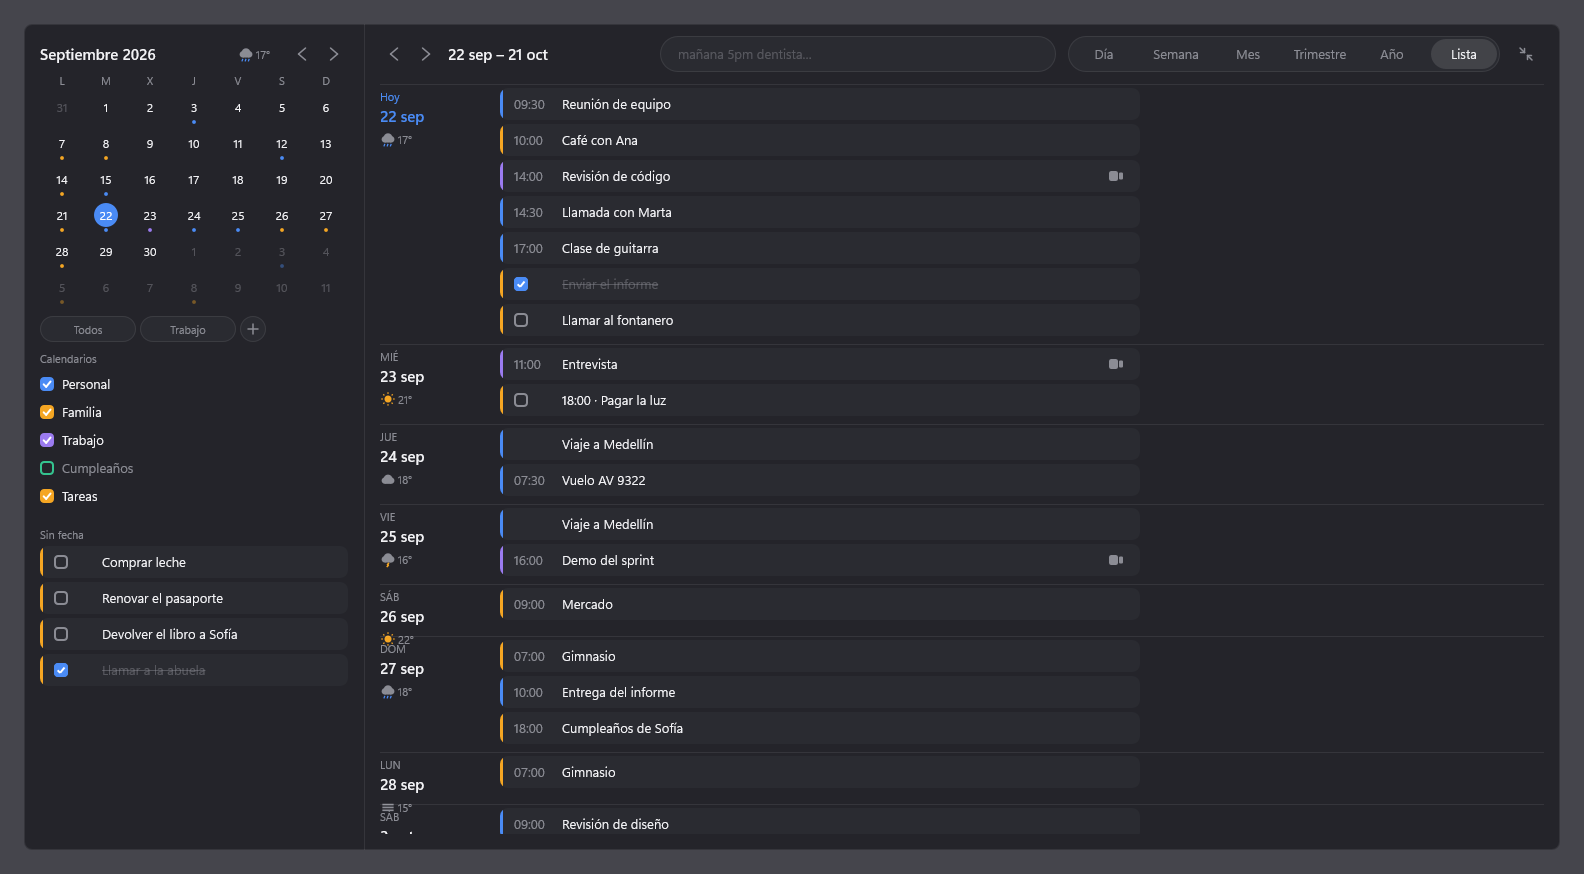
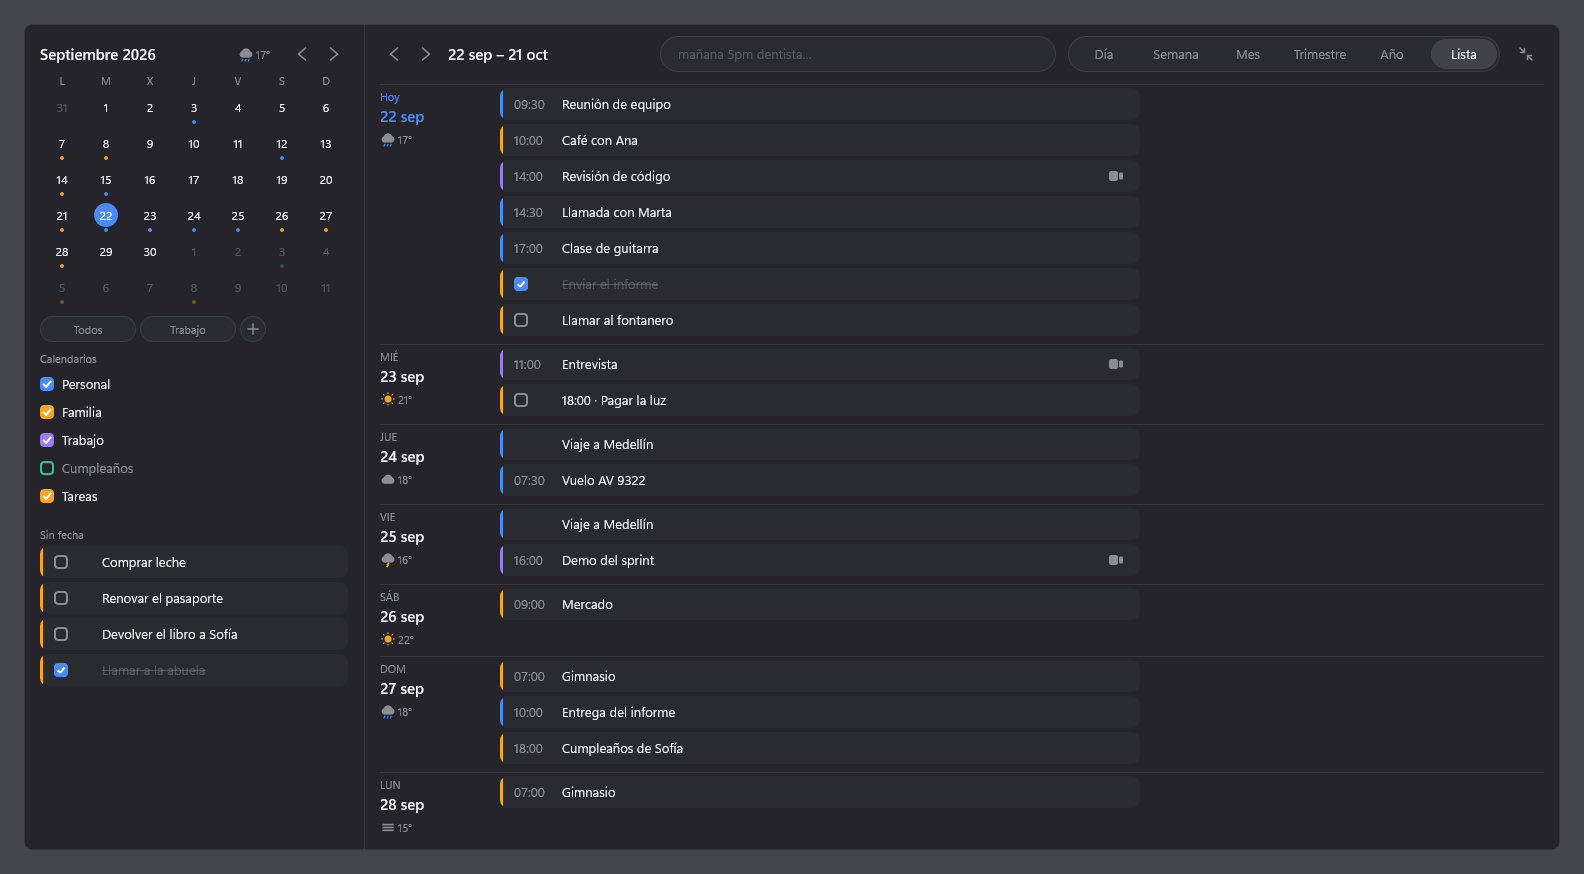
fix(calendario): lo que encontro la prueba en vivo de la fase 13
- el clima se perdia al reabrir el popup
- Open-Meteo responde deflate y WinHTTP no lo lee: se pide sin comprimir
- con seis pestanas en un portatil al 175 % la capsula tapaba las flechas
- la lista y el ano se amontonaban con filas bajas

Changed region(s): [[0.3093, 0.7414, 0.4331, 0.9577], [0.2165, 0.8959, 0.2784, 0.9577], [0.2475, 0.7414, 0.2784, 0.8032]]

diff --git a/calendario/src/ui/app_layout.h b/calendario/src/ui/app_layout.h
@@ -144,6 +144,9 @@ struct AppLayout {
   D2D1_RECT_F title{};
   D2D1_RECT_F input{};
   D2D1_RECT_F tabs[kAppViews]{};
+  // How the tabs are labelled, from what fits: 0 the whole word, 1 shortened ("Sem.",
+  // "Trim."), 2 the initial alone. Six views do not fit a small laptop's app at full length.
+  int tabLabels = 0;
   D2D1_RECT_F collapse{};
 
   D2D1_RECT_F main{};
@@ -284,14 +287,27 @@ inline AppLayout MakeAppLayout(D2D1_SIZE_F size, const PanelLayout& popup, AppVi
   const float right = (std::max)(left, out.width - out.padding);
 
   out.collapse = D2D1_RECT_F{right - out.rowHeight, out.rowTop, right, rowBottom};
-  const float tabWidth = at(kTabWidthDip);
   const float tabsRight = out.collapse.left - 2.0f * out.gap;
+  const float arrow = popup.arrowSize;
+  // What has to fit left of the tabs: the arrows, a title worth reading and the shortest
+  // capsule. The tabs take the widest labels that still leave that much.
+  const float leftNeeds = 2.0f * arrow + out.gap + 2.0f * out.gap + at(120.0f) + 3.0f * out.gap +
+                          at(kCapsuleMinDip) + 3.0f * out.gap;
+  const float tabsRoom = tabsRight - left - leftNeeds;
+  constexpr float kTabWidths[3] = {kTabWidthDip, 56.0f, 34.0f};
+  out.tabLabels = 2;
+  for (int labels = 0; labels < 3; ++labels) {
+    if (static_cast<float>(kAppViews) * at(kTabWidths[labels]) <= tabsRoom) {
+      out.tabLabels = labels;
+      break;
+    }
+  }
+  const float tabWidth = at(kTabWidths[out.tabLabels]);
   for (int i = 0; i < kAppViews; ++i) {
     const float tabLeft = tabsRight - static_cast<float>(kAppViews - i) * tabWidth;
     out.tabs[i] = D2D1_RECT_F{tabLeft, out.rowTop, tabLeft + tabWidth, rowBottom};
   }
 
-  const float arrow = popup.arrowSize;
   const float arrowTop = std::round(out.rowTop + (out.rowHeight - arrow) / 2.0f);
   out.prev = D2D1_RECT_F{left, arrowTop, left + arrow, arrowTop + arrow};
   out.next = D2D1_RECT_F{out.prev.right + out.gap, arrowTop, out.prev.right + out.gap + arrow,
@@ -302,7 +318,9 @@ inline AppLayout MakeAppLayout(D2D1_SIZE_F size, const PanelLayout& popup, AppVi
   const float inputRight = out.tabs[0].left - 3.0f * out.gap;
   const float titleMin = at(200.0f);
   const float room = inputRight - (out.next.right + 2.0f * out.gap + titleMin + 3.0f * out.gap);
-  const float capsule = std::clamp(room, at(kCapsuleMinDip), at(kCapsuleMaxDip));
+  // Never over the arrows, even when that means shorter than its minimum.
+  const float capsule = (std::min)(std::clamp(room, at(kCapsuleMinDip), at(kCapsuleMaxDip)),
+                                   (std::max)(0.0f, inputRight - out.next.right - 2.0f * out.gap));
   out.input = D2D1_RECT_F{inputRight - capsule, out.rowTop, inputRight, rowBottom};
   out.title = D2D1_RECT_F{out.next.right + 2.0f * out.gap, out.rowTop,
                           (std::max)(out.next.right + 2.0f * out.gap,
@@ -381,8 +399,11 @@ inline YearMonth PlaceYearMonth(const AppLayout& app, const PanelLayout& popup, 
   grid.gridHeight = grid.cellHeight * kGridRows;
   const float scale = grid.cellHeight / popup.cellHeight;
   grid.dayCircle = std::round((std::min)(popup.dayCircle * scale, grid.cellWidth - 4.0f));
-  grid.dayCenterY = std::round(popup.dayCenterY * scale);
-  grid.dotCenterY = grid.dayCenterY + grid.dayCircle / 2.0f + grid.eventDot / 2.0f;
+  // The dot at the foot of its own cell and the number centred in what is left above it: the
+  // letters do not shrink with the rows, so anything worked out from the popup's proportions
+  // puts the dot against the next row's number on a small screen (seen at 175 %).
+  grid.dotCenterY = grid.cellHeight - grid.eventDot / 2.0f - 1.0f;
+  grid.dayCenterY = std::round((grid.cellHeight - grid.eventDot - 2.0f) / 2.0f);
   return out;
 }
 
@@ -432,7 +453,8 @@ inline std::vector<ListRow> PlaceList(const AppLayout& app, const PanelLayout& p
     const std::vector<DayItem>& items = days[static_cast<size_t>(d)];
     if (items.empty()) continue;
     const float cards = static_cast<float>(items.size()) * (popup.cardHeight + app.gap);
-    const float height = (std::max)(cards, std::round(44.0f * app.type)) + 2.0f * app.gap;
+    // Never shorter than its date column: weekday, date and the weather under them (64 DIP).
+    const float height = (std::max)(cards, std::round(64.0f * app.type)) + 2.0f * app.gap;
     ListRow heading;
     heading.heading = true;
     heading.day = AddDays(first, d);

diff --git a/calendario/src/ui/app_view.cpp b/calendario/src/ui/app_view.cpp
@@ -157,9 +157,16 @@ void DrawTopRow(ID2D1RenderTarget* target, const Fonts& fonts, const Theme& them
   brush->SetColor(theme.border);
   StrokeRound(target, all, radius, brush, 1.0f);
 
-  const std::wstring_view kNames[kAppViews] = {T(L"Día", L"Day"),         T(L"Semana", L"Week"),
-                                               T(L"Mes", L"Month"),       T(L"Trimestre", L"Quarter"),
-                                               T(L"Año", L"Year"),        T(L"Lista", L"List")};
+  const std::wstring_view kFull[kAppViews] = {T(L"Día", L"Day"),   T(L"Semana", L"Week"),
+                                              T(L"Mes", L"Month"), T(L"Trimestre", L"Quarter"),
+                                              T(L"Año", L"Year"),  T(L"Lista", L"List")};
+  const std::wstring_view kShort[kAppViews] = {T(L"Día", L"Day"),  T(L"Sem.", L"Week"),
+                                               T(L"Mes", L"Mon."), T(L"Trim.", L"Qtr."),
+                                               T(L"Año", L"Year"), T(L"Lista", L"List")};
+  const std::wstring_view kInitial[kAppViews] = {T(L"D", L"D"), T(L"S", L"W"), T(L"M", L"M"),
+                                                 T(L"T", L"Q"), T(L"A", L"Y"), T(L"L", L"L")};
+  const std::wstring_view* kNames =
+      app.tabLabels == 0 ? kFull : (app.tabLabels == 1 ? kShort : kInitial);
   const float inset = std::round(3.0f * app.type);
   for (int i = 0; i < kAppViews; ++i) {
     const bool on = static_cast<int>(appModel.view) == i;

diff --git a/calendario/tests/test_app.cpp b/calendario/tests/test_app.cpp
@@ -279,3 +279,18 @@ TEST_CASE("a template made from an event is named after it and says all but when
   CHECK(TemplateTextFor(event) ==
         L"e: Revisión por 90 min @ Sala Andes con ana@x.com y luis@x.com");
 }
+
+TEST_CASE("on a small screen the tabs shorten before the capsule climbs over the arrows") {
+  // The app on a 1920x1080 laptop at 175 %: 878 x 494 DIP, with the popup's 308 DIP sidebar.
+  const PanelLayout popup = MakeLayout(D2D1_SIZE_F{308.0f, 380.0f});
+  for (const float width : {878.0f, 1100.0f, kAppBaseWidthDip}) {
+    const AppLayout app =
+        MakeAppLayout(D2D1_SIZE_F{width, 494.0f}, popup, AppView::Week, 1);
+    CHECK(app.input.left >= app.next.right);
+    CHECK(app.input.right <= app.tabs[0].left);
+    CHECK(app.tabs[0].left >= app.sidebarRight);
+    CHECK(app.tabs[kAppViews - 1].right <= app.collapse.left);
+  }
+  CHECK(BaseApp(AppView::Week).tabLabels == 0);  // the design size has room for whole words
+  CHECK(MakeAppLayout(D2D1_SIZE_F{878.0f, 494.0f}, popup, AppView::Week, 1).tabLabels > 0);
+}

diff --git a/calendario/src/sync/http.cpp b/calendario/src/sync/http.cpp
@@ -57,7 +57,7 @@ class RequestHandle {
 
 Http::~Http() { Close(); }
 
-bool Http::Open() {
+bool Http::Open(bool decompress) {
   Close();
 
   session_ = WinHttpOpen(kAgent, WINHTTP_ACCESS_TYPE_AUTOMATIC_PROXY, WINHTTP_NO_PROXY_NAME,
@@ -76,9 +76,11 @@ bool Http::Open() {
   WinHttpSetOption(session_, WINHTTP_OPTION_ENABLE_HTTP_PROTOCOL, &http2, sizeof(http2));
 
   // A year of somebody's calendar arrives compressed, without a line of gzip written here.
-  DWORD decompression = WINHTTP_DECOMPRESSION_FLAG_ALL;
-  WinHttpSetOption(session_, WINHTTP_OPTION_DECOMPRESSION, &decompression,
-                   sizeof(decompression));
+  if (decompress) {
+    DWORD decompression = WINHTTP_DECOMPRESSION_FLAG_ALL;
+    WinHttpSetOption(session_, WINHTTP_OPTION_DECOMPRESSION, &decompression,
+                     sizeof(decompression));
+  }
 
   {
     std::lock_guard<std::mutex> lock(mutex_);

diff --git a/calendario/src/sync/weather.cpp b/calendario/src/sync/weather.cpp
@@ -84,7 +84,7 @@ void Weather::Run(WeatherCity city) {
   }
 
   sync::Http http;
-  if (!http.Open()) {
+  if (!http.Open(/*decompress=*/false)) {
     LogError(L"clima: no se pudo abrir WinHTTP");
     return;
   }
@@ -108,7 +108,9 @@ void Weather::Run(WeatherCity city) {
         L"&daily=weather_code,temperature_2m_max,temperature_2m_min&timezone=auto&forecast_days=16",
         city.latitude, city.longitude);
     sync::HttpResponse response;
-    if (!http.Send(L"api.open-meteo.com", L"GET", path, L"", {}, response) ||
+    // Uncompressed on purpose: see Http::Open.
+    if (!http.Send(L"api.open-meteo.com", L"GET", path, L"Accept-Encoding: identity\r\n", {},
+                   response) ||
         response.status != 200) {
       LogInfo(L"clima: Open-Meteo no respondió ({}), se reintenta en 3 h", response.status);
       continue;

diff --git a/calendario/src/sync/http.h b/calendario/src/sync/http.h
@@ -44,7 +44,10 @@ class Http {
   Http(const Http&) = delete;
   Http& operator=(const Http&) = delete;
 
-  bool Open();
+  // `decompress` false leaves the body as sent. The weather needs it (phase 13): Open-Meteo
+  // answers WinHTTP's "gzip, deflate" with deflate, and WinHTTP fails every read of it with
+  // E_ABORT. Its answer is two kilobytes; compression buys nothing there.
+  bool Open(bool decompress = true);
   void Close();
 
   // Closes whatever is in flight and wakes whoever is sleeping between retries. Called from the

diff --git a/calendario/src/ui/popup_window.cpp b/calendario/src/ui/popup_window.cpp
@@ -452,7 +452,10 @@ void PopupWindow::Show() {
   theme_ = theme;
   if (flipped) ApplyDwmAttributes();
 
+  // The weather is not the popup's to forget: it arrives every three hours, not on opening.
+  std::vector<DayWeather> weather = std::move(model_.weather);
   model_ = MakeModel(TodayLocal());
+  model_.weather = std::move(weather);
   model_.focus = 1.0f;
   // Opening closes the undo window: the notice lives inside the panel, so once the panel is
   // gone there is nothing left offering to take anything back.

diff --git a/calendario/CLAUDE.md b/calendario/CLAUDE.md
@@ -94,7 +94,7 @@ Cualquier dependencia que no esté en esta tabla requiere **preguntar antes**.
   - Panel de detalle: 320 DIP a la derecha, superficie de tarjeta con el radio del panel (14), campos de 32 DIP con fondo `panelOpaque` y radio 8; foco en acento, error en el rojo de `now`. Entra con los 160 ms de siempre y no con el muelle: es algo que entra, no la ventana que cambia de tamaño.
   - Arrastrar: ajuste a 15 min, 4 DIP de temblor siguen siendo un clic, y los 6 DIP de abajo de un bloque lo estiran. El fantasma del arrastre es el bloque con el contorno de la selección.
   - Respeta la preferencia de "reducir animaciones" de Windows (`SPI_GETCLIENTAREAANIMATION`).
-  - **Seis vistas (fase 13.5)**, en este orden de pestaña y de `AppView`: Día, Semana, Mes, Trimestre, Año, Lista (teclas D, S, M, R/Q, A/Y, L). `HasTimeline` (día y semana) e `IsDayGrid` (mes y trimestre) sustituyen a las comprobaciones de «es mes». **Trimestre** son 14 semanas seguidas desde el lunes de la semana del día 1 del trimestre natural, con los eventos al lado del número (una fila no da para ponerlos debajo) y el mes en acento bajo cada día 1. **Año** son doce `DrawMonthGrid` del popup en 4×3 (`PlaceYearMonth`, filas nunca más altas que las del popup, sin los días de los meses vecinos) y sus puntos salen de un solo `DotsForRange`. **Lista** son 30 días desde el seleccionado, sin los vacíos: fecha a la izquierda (120 DIP) y las tarjetas del popup a la derecha, hasta 640 DIP. En trimestre y año un clic abre el día. Los ids UIA de las pestañas pasaron a 20–25.
+  - **Seis vistas (fase 13.5)**, en este orden de pestaña y de `AppView`: Día, Semana, Mes, Trimestre, Año, Lista (teclas D, S, M, R/Q, A/Y, L). `HasTimeline` (día y semana) e `IsDayGrid` (mes y trimestre) sustituyen a las comprobaciones de «es mes». **Trimestre** son 14 semanas seguidas desde el lunes de la semana del día 1 del trimestre natural, con los eventos al lado del número (una fila no da para ponerlos debajo) y el mes en acento bajo cada día 1. **Año** son doce `DrawMonthGrid` del popup en 4×3 (`PlaceYearMonth`, filas nunca más altas que las del popup, sin los días de los meses vecinos) y sus puntos salen de un solo `DotsForRange`. **Lista** son 30 días desde el seleccionado, sin los vacíos: fecha a la izquierda (120 DIP) y las tarjetas del popup a la derecha, hasta 640 DIP. En trimestre y año un clic abre el día. Los ids UIA de las pestañas pasaron a 20–25. Si la fila de arriba no cabe (visto en vivo con la app a 878 DIP, un portátil al 175 %), las pestañas se acortan antes que nada: palabra entera (72 DIP), abreviada («Sem.», «Trim.», 56) o inicial (34), `AppLayout::tabLabels`; y la cápsula nunca pasa sobre las flechas.
 - **Semana:** empieza en lunes. Iniciales en español: L M X J V S D; en inglés, M T W T F S S. El locale por defecto es es-CO.
 - **Clima (fase 13.9):** el icono se dibuja con Direct2D (sol en `alt`, nube en `textSecondary`, lluvia en acento, rayo en `alt`; `DrawSky`), 16 DIP y la máxima en 11. En la cabecera del popup a la izquierda de las flechas, en la esquina superior derecha de cada cabecera de día (si la columna mide más de 110 DIP) y bajo la fecha en la Lista. Sin datos no se dibuja nada. La configuración tiene **Clima** (interruptor, encendido por defecto) y **Ciudad del clima** (control de pasos sobre `kWeatherCities`).
 - **La configuración se desplaza (fase 13.9):** alto máximo el 90 % del área de trabajo; rueda de dos tarjetas por muesca, `Tab` revela el control y los rectángulos UIA se corrigen con el desplazamiento.

diff --git a/calendario/CHANGELOG.md b/calendario/CHANGELOG.md
@@ -31,6 +31,7 @@ sigue [SemVer](https://semver.org/lang/es/).
   **Trimestre** (las catorce semanas del trimestre con sus eventos), **Año** (los doce meses con
   sus puntos) y **Lista** (los próximos treinta días, sin los vacíos). Teclas `R`, `A` y `L`.
   En trimestre y año un clic abre el día. Capturas `app-trimestre`, `app-anio` y `app-lista`.
+  En una pantalla pequeña las pestañas se abrevian («Sem.», «Trim.») o quedan en su inicial.
 - **Conjuntos de calendarios** (fase 13.6). Una fila de fichas encima de los calendarios —Todos,
   cada conjunto y **+**— enciende de un clic solo los calendarios de un conjunto. **+** guarda
   los interruptores como están, con el nombre de lo que está encendido, y la × de cada ficha lo
